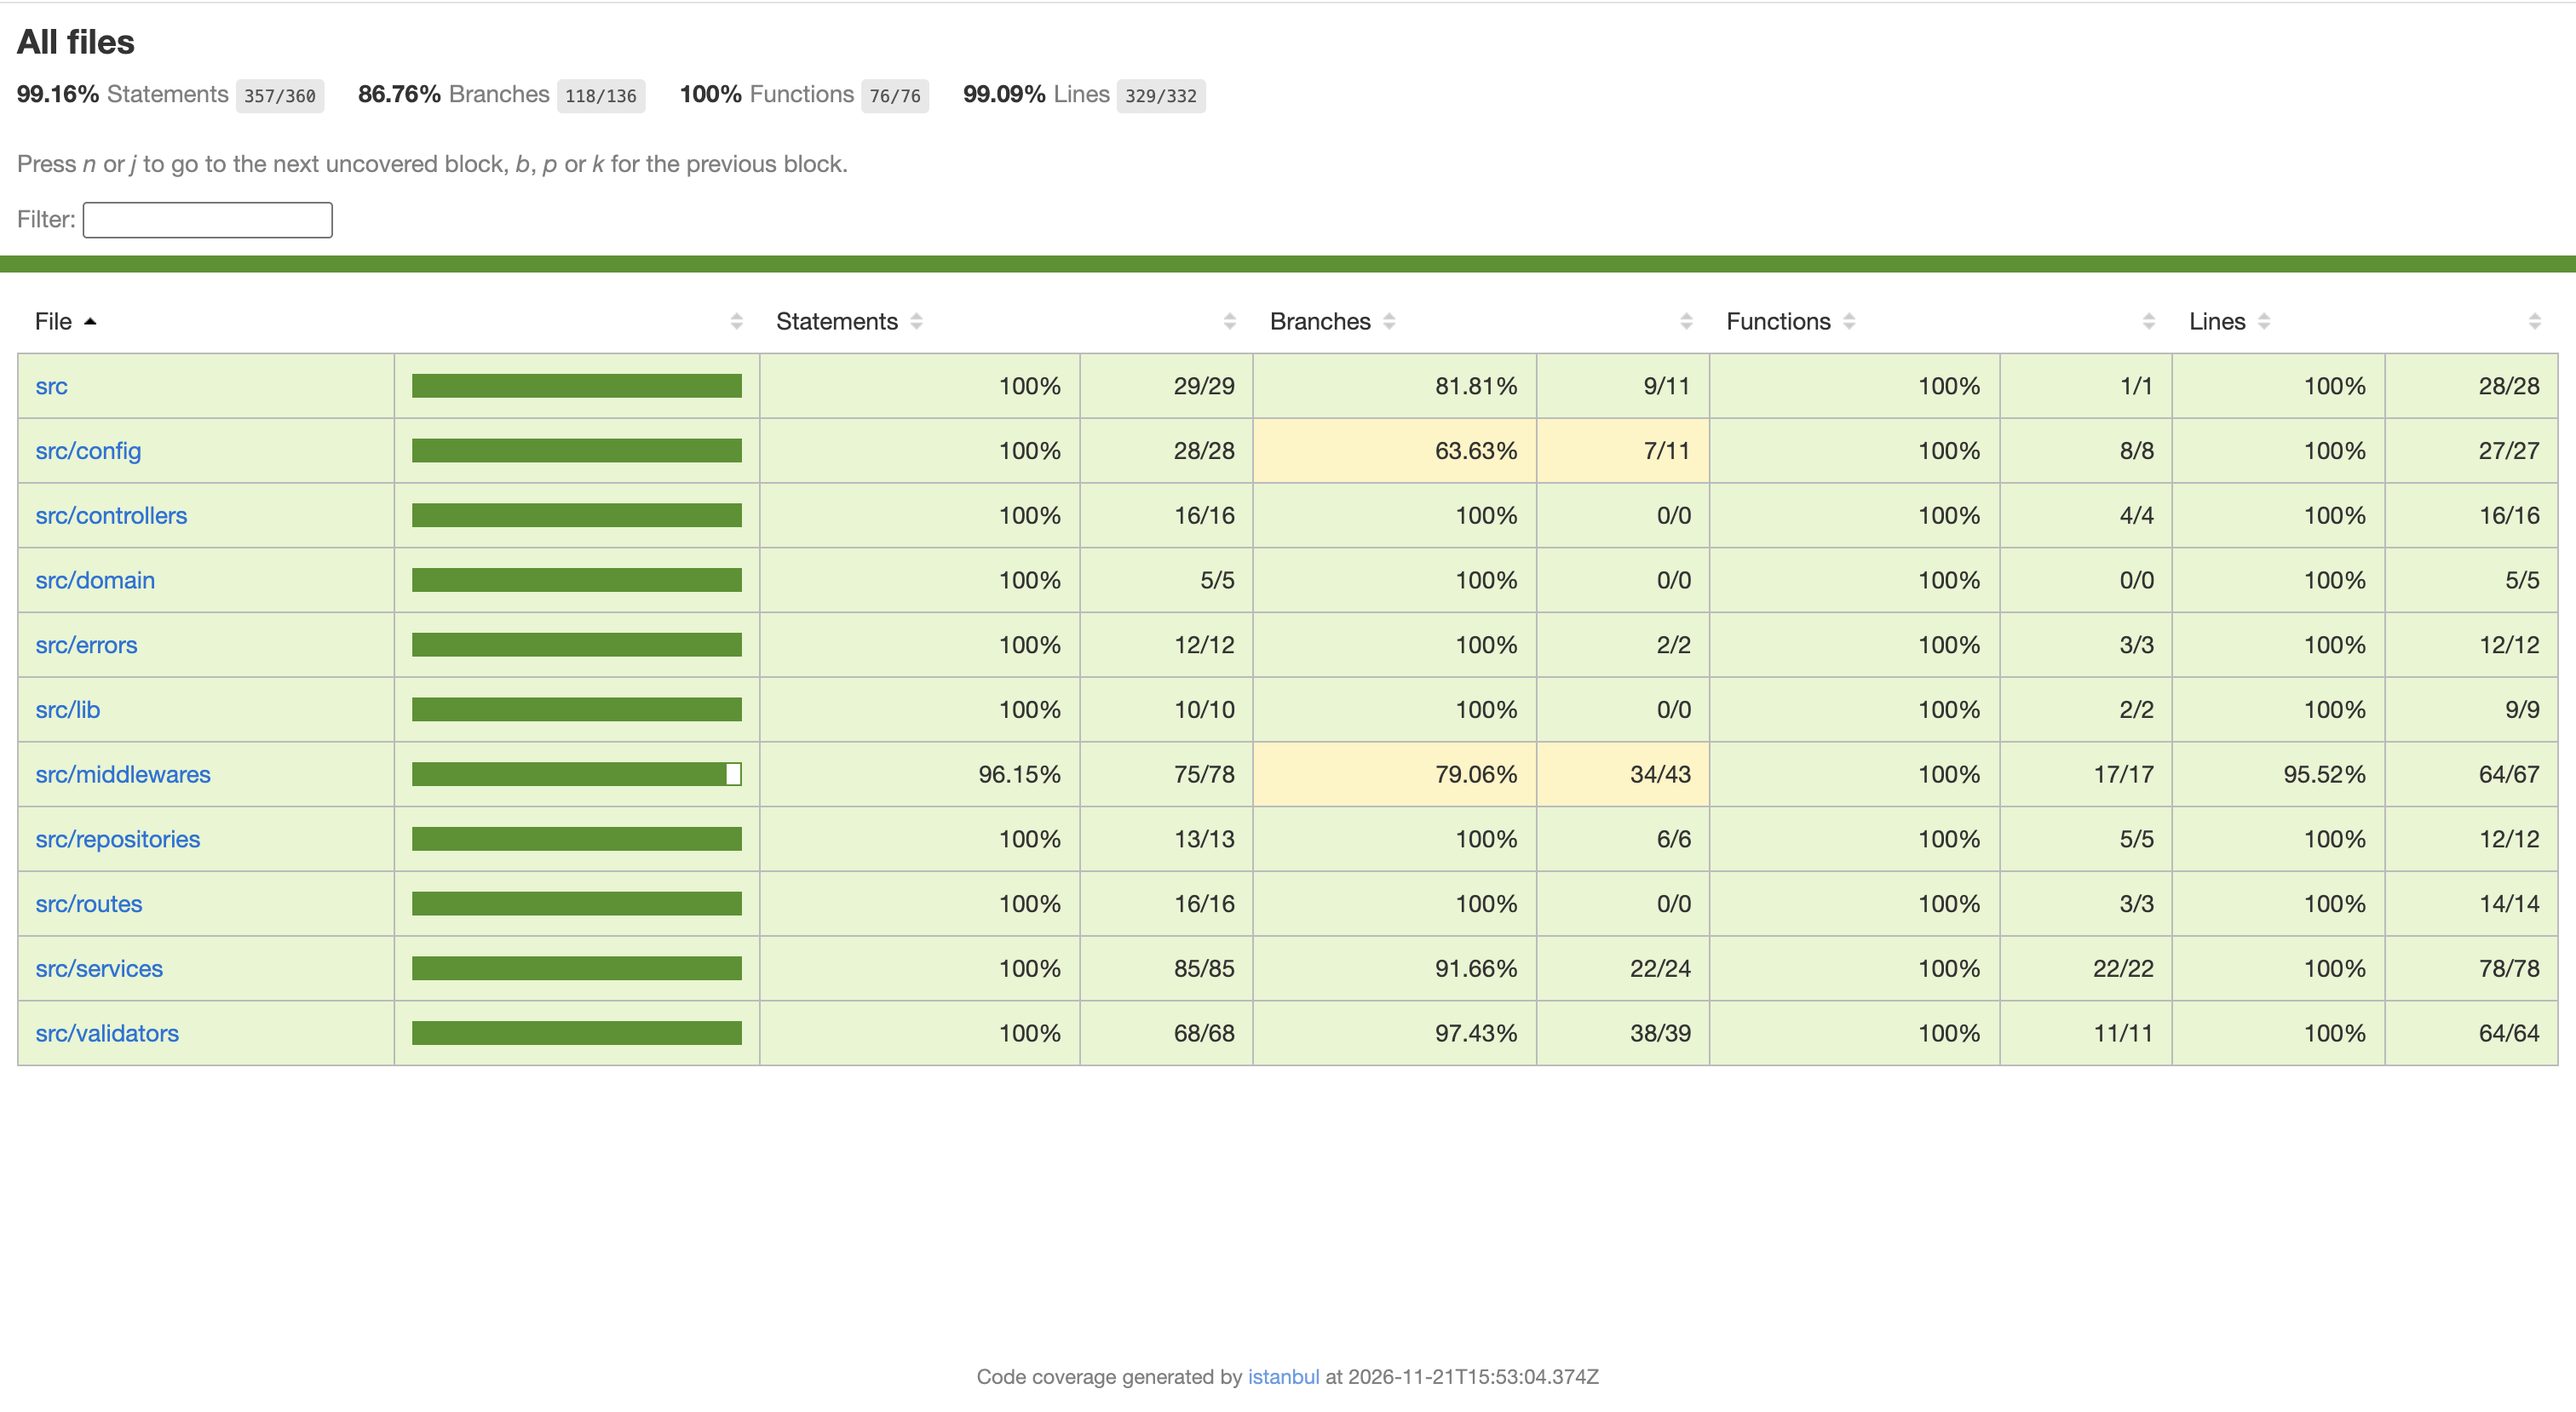
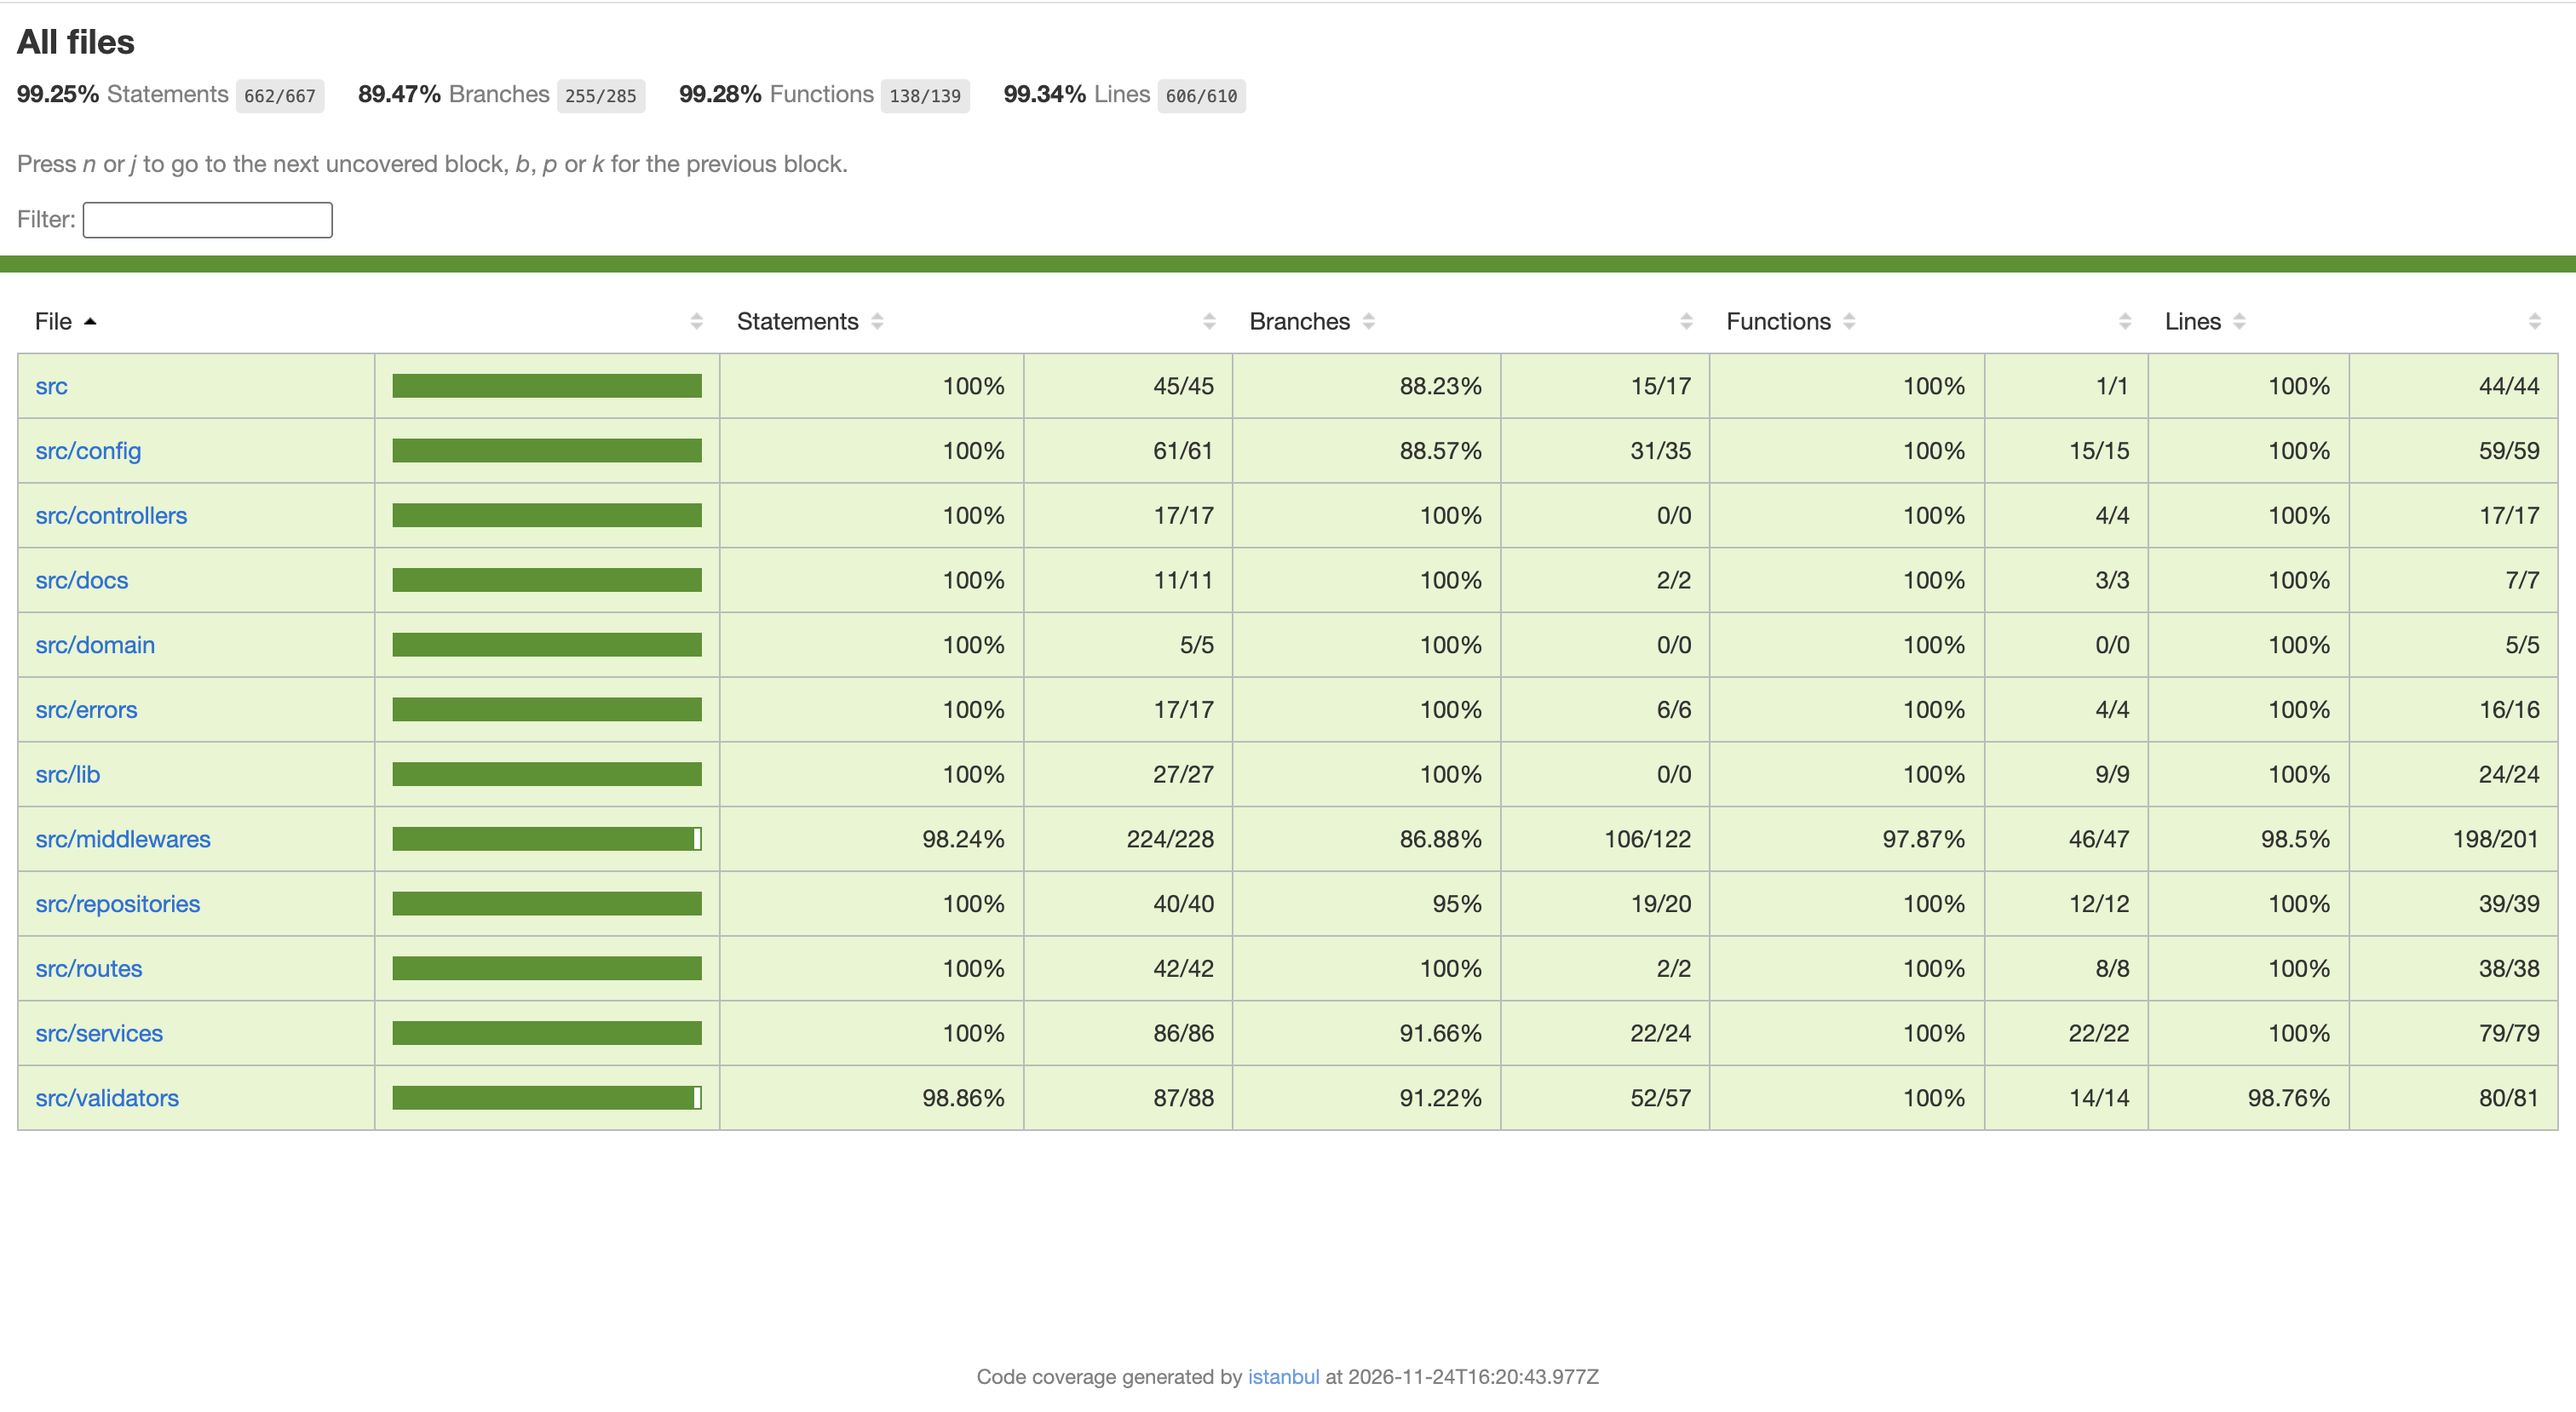
docs: update coverage report screenshot (318 tests)
Claude-Session: https://claude.ai/code/session_01SP3SFs72t66Ka8zVGq2xW5

diff --git a/README.md b/README.md
@@ -549,13 +549,13 @@ npm run test:coverage   # coverage report in coverage/
 
 ### Coverage
 
-![Jest coverage report: 99% statements, 87% branches, 100% functions, 99% lines](docs/images/coverage-report.png)
+![Jest coverage report: 99.25% statements, 89.47% branches, 99.28% functions, 99.34% lines](docs/images/coverage-report.png)
 
-Every function is covered, and over 99% of statements and lines. The uncovered
-branches are mostly defensive fallbacks (for example, default values for settings that
-are always present after validation, and body-parser error types that Express does not
-produce in practice). Run `npm run test:coverage` and open `coverage/lcov-report/index.html`
-to see the current report.
+Over 99% of statements, functions and lines are covered, across 318 tests. The
+uncovered branches are mostly defensive fallbacks: default values for settings that are
+always present after validation, `??` guards in type-narrowing code, and request-reading
+error types that Express does not produce in practice. Run `npm run test:coverage` and
+open `coverage/lcov-report/index.html` to see the current report.
 
 ### What the tests cover
 
